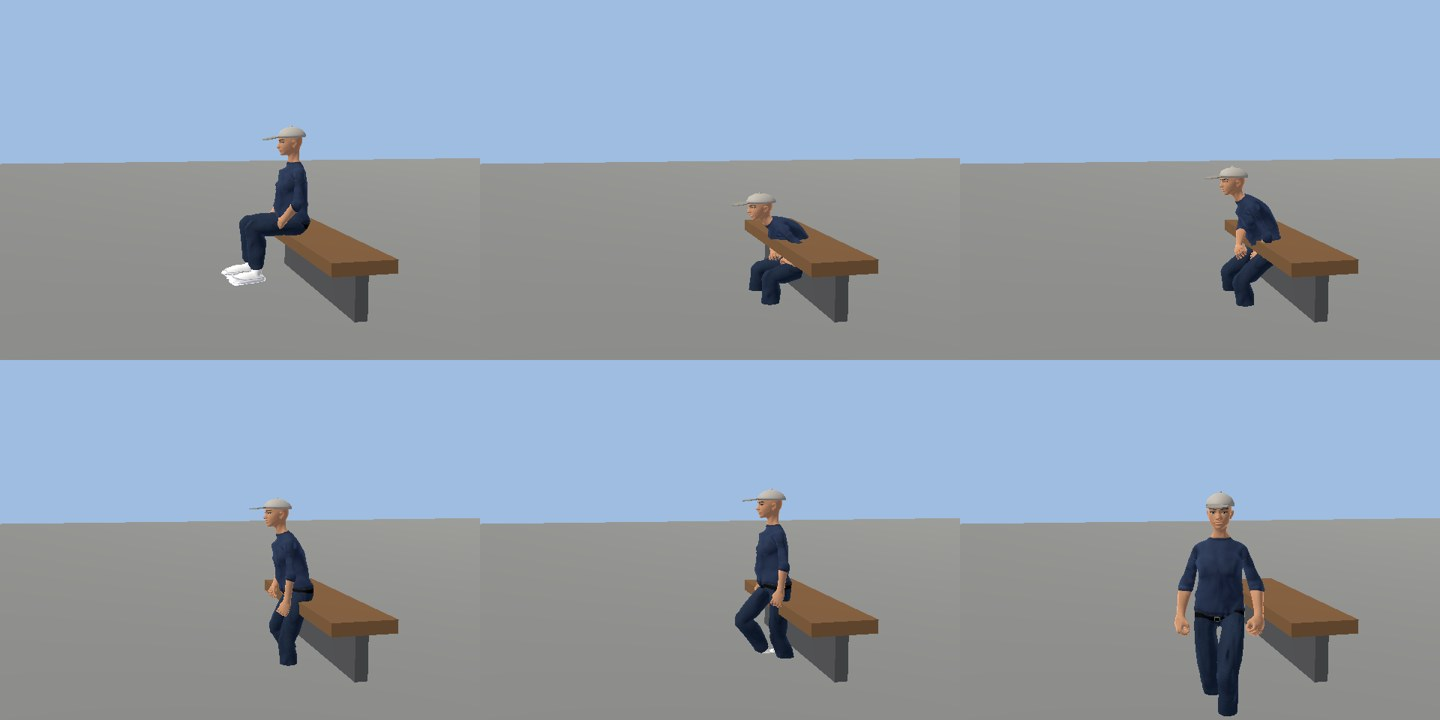
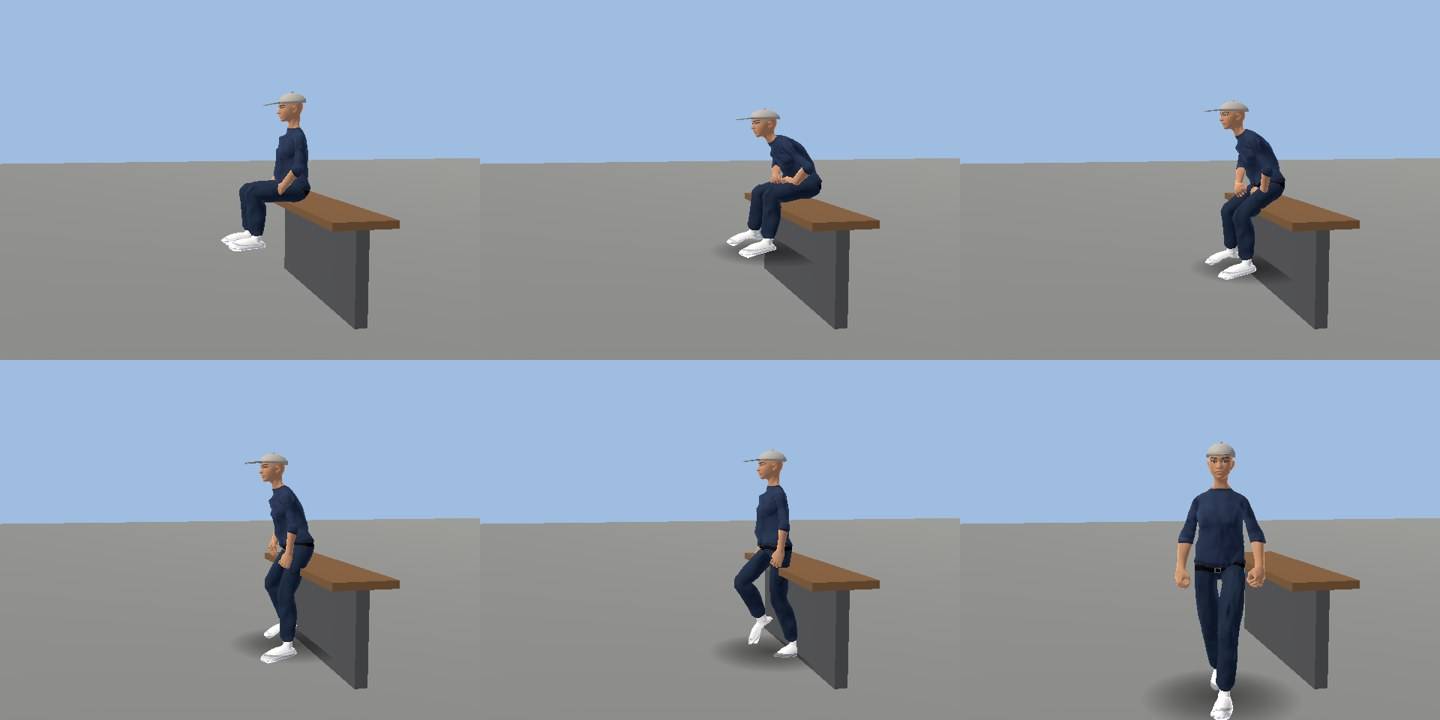
Banco: la raíz se compensa en sentarse/levantarse para no hundirse en el tablero; peatones a la altura del suelo
Claude-Session: https://claude.ai/code/session_015HWWmo9PWZavoEcwL8dfWu

diff --git a/docs/PLAN_DEL_LUNES.md b/docs/PLAN_DEL_LUNES.md
@@ -451,7 +451,7 @@ para tapar el músculo y borraba las arrugas y el tejido; ahora quita el múscul
 en 0,4 (`p4_ropa_despues.jpg`; antes = `p1_postura_despues.jpg`). La piel desnuda iba con rugosidad y especular de tela
 (brillo plástico en nariz y labios): ahora rugosidad 0,76, especular 0,14 y subsuperficie 0,22 (`p4_cara_{antes,despues}.jpg`; en la captura el cambio es SUTIL: el
 brillo que queda en nariz y labios viene de la luz de borde `RIM` y de la cara de frente al sol; pendiente revisarlo con la cámara real).
-P3 HECHO 27-10 (`ideas/p3_puertas`, `p3_escaleras`, `p3_banquillo_tour`): vecinos que abren las puertas de las entradas (`PuertaVida`: llegan, tienden la mano, la hoja gira, entran/salen), gente que sube y baja escaleras peldaño a peldaño con el ciclo de paso ajustado (`EscaleraVida`: bocas del metro, escalinata del ayuntamiento, estación del teleférico) y los 5 mejores suplentes sentados en el banquillo local de la visita al estadio (`BanquilloTour`). La grada de la visita ya lleva hinchada (35 % de ocupación, VAT). S8 MUSEO INTERACTIVO (27-10, `MuseoVitrinas` + `VisorTrofeo`, `ideas/s8_museo_vitrinas`, captura `capturas_ciudad_c2/visor_trofeo.jpg`): E ante una vitrina de la planta 2 (`SalasClub.vitrinas`) abre un panel con la copa real girando en su propio `SubViewport` (ratón o A/D para girarla) y la ficha del título k (`Roles.trofeos[k]`: competición, año, final, goleadores; lo no guardado dice «Sin datos»). Ahora se guardan la final y los tres máximos goleadores al ganar la LIGA (`Roles._ficha_liga`) y la final de la Supercopa. La planta 3 del museo ampliado (copas 7+, `MuseoAmpliado.vitrinas`) también es interactiva: ambas plantas siguen el mismo orden de hitos por año (`MuseoVitrinas.hitos`). La COPA ya suma a `Roles.trofeos` con su final (`Mundo._final_de_copa`). PENDIENTE: el museo no ha crecido más en detalle. S7 PASAJEROS DEL AUTOBÚS (27-10, `PasajerosBus`, `ideas/s7_pasajeros`): en cada marquesina (`CityBuilder.esperas_bus`) esperan 2 personas mientras el jugador está a < 70 m; al parar el autobús caminan a la puerta y suben (su semilla queda en `meta "pasajeros"` del autobús, máx. 10); en la parada siguiente BAJAN las mismas personas y se van andando. Los cristales del autobús son semitransparentes y tintados (`InteriorBus`, captura `capturas_ciudad_c2/bus_interior.jpg`) y dentro hay 10 plazas con una silueta sentada por pasajero (se encienden/apagan con `meta "pasajeros"`, `ideas/s7_pasajeros`); son siluetas simples (cápsula y esfera), no peatones con esqueleto. El metro ya lo hacía (espera, subir, viajar dentro y bajar: `metro_ciudad_p1`); el tren y el teleférico son de la ejecutora. S6 PARAGUAS (27-10, `ParaguasVida`, `ideas/s6_paraguas`, `capturas_personajes/s6_paraguas.jpg`): con clima de lluvia o tormenta (`Mundo.clima()`) los peatones abren un paraguas sobre la cabeza (6 colores apagados), caminan un 25 % más rápido y hasta 5 se resguardan unos 6-10 s bajo la marquesina de una entrada (a < 4,5 m) con el paraguas cerrado; al escampar se recoge todo. El paraguas va en la MANO derecha (BoneAttachment3D a hand_r) con el brazo levantado (clip «caminar_paraguas», el caminar con brazo y antebrazo fijados; eje corregido 35°). LLUVIA EN LA CIUDAD (`PrecipitacionCiudad`: dos emisores que siguen a la cámara, topes de partículas 1800/4200/5200 según calidad frente a ~15 000 en el partido; suelo mojado `CityBuilder.mojar`; capturas `s6_lluvia_ciudad_{seco,lluvia}.jpg`; memoria del proceso 5230 → 5233 MB con 4200 partículas en software). CLIMA EN LA CIUDAD (`ClimaCiudad`, usa `Ambience.CLIMA_PARTIDO`): con lluvia/tormenta/nublado/niebla el cielo se aplana a gris sin disco solar, el sol baja de energía y se difumina, más niebla; gotas largas y claras; ruido de lluvia cada 3 s por el bus de ambiente (`lluvia_ambiente`/`lluvia_fuerte`); capturas `s6_lluvia_ciudad_{lluvia,cerca}.jpg` (la de cerca: dos peatones con el paraguas en la mano). PENDIENTE: revisar en Forward+. P1-P3 «MEJORAR» (27-10) 1/3 MOVIMIENTO NATURAL (`MovimientoNatural`, `ideas/p1_movimiento_natural`): el peatón de la ciudad arranca con rampa de 0,45 s (la velocidad del clip la sigue), si lo frenan (jugador, semáforo, el de delante) pasa a «parado» en vez de mover las piernas sin avanzar (con 0,4 s de histéresis), gira con suavidad hacia donde va a ir (mira 0,5 m por delante en la ruta, máx. 0,33 rad por fotograma en una esquina de 90°) y 2 de cada 3 peatones a < 8 m giran la cabeza hacia el jugador (`LookAtModifier3D` de `MiradaBalon`, influencia con rampa de 0,5 s). El jugador quieto que gira sobre sí da pasitos (clip «caminar» a 0,8). PENDIENTE de la pasada: inclinación del torso al girar corriendo, sin captura antes/después (un fotograma fijo no enseña el giro; la prueba mide el giro por fotograma). 2/3 POSTURA y ANATOMÍA (27-10, `PosturaQ`, `ideas/p2_postura`, `capturas_personajes/p2_postura_antes_despues.jpg`, arriba antes, abajo después): un `SkeletonModifier3D` por peatón, tras la animación, suma según su semilla manos relajadas (dedos doblados 14-22° por falange, pulgar menos), hombros caídos 4-12° y cabeza/cuello adelantados 3-14°; 35 huesos, rotaciones fijas. Ejes medidos por prueba (dedos X, hombro −Z, cuello X). REVISIÓN DEL LÍDER (27-10): el adelanto de cuello es leve (1-6°) y la cabeza se NIVELA (corrige el 85 % del cabeceo medido; solo 1 de cada 12 conserva la cabeza gacha) para mirar al horizonte de perfil. MOCHILAS DE PERFIL (revisión del líder en Forward+): la mochila se hundió 3,5 cm en el torso (espalda medida a z −0,14…−0,16 entre y −0,15 y 0,22) y las correas se acortaron (el pecho llega solo hasta la axila y pegadas a la fachada del torso); captura andando `p4_mochila_perfil_antes_despues.jpg`. El «objeto oscuro del mentón» NO era una malla del peatón: era la visera de la gorra del peatón que quedaba detrás en la escena de captura (se solapaban en fila). MOCHILAS (`MochilaQ`, `capturas_personajes/p4_mochila_antes_despues.jpg`, arriba cajas, abajo ahora): cuerpo y bolsillo de bordes redondeados, asa y dos correas que pasan por el hombro, bajan por el pecho y vuelven bajo el brazo pegadas al torso (medido en `spine_03`). PENDIENTE: lo mismo en los futbolistas del partido (no se ha tocado) y 3/3 MÁS ANIMACIONES (27-10): MIRAR ESCAPARATES (`EscaparateVida`, `ideas/p3_escaparates`): junto a las entradas (`puertas_vida`) un vecino llega por la fachada, se para a 2,6 m de la puerta, gira el cuerpo al cristal, pasea la mirada 6-9 s (`LookAtModifier3D` sobre un punto que barre el escaparate) y se va; máx. 2. HABLAR EN GRUPO (`GrupoVida`, `ideas/p3_grupo`, `capturas_personajes/p3_grupo.jpg`): tres vecinos llegan por distintos lados, forman un corro a 0,95 m del centro ante una entrada, charlan 14-22 s con el clip «charla» a distinto desfase (la cabeza de cada uno sigue al que habla, que cambia cada 3 s) y se van cada uno por su lado; 1 grupo a la vez. ARREGLO DE FONDO: la «charla» (y cualquier clip `…_Loop`) NO se cargaba para los peatones porque el pack lo guarda sin el sufijo (`PeatonVida.gesto` y `TraficoCiudad._gesto` no tenían el respaldo de `AnimExtra.asegurar`, que ahora además deja esos clips en bucle): las charlas de dos peatones que se alcanzaban tampoco gesticulaban. MIRAR EL MÓVIL ya existía (`PeatonVida.esperar`: «Idle_Torch» con el móvil en la mano). SENTARSE EN UN BANCO (`GenteSentada._llegadas`, `ideas/p3_sentados`): quien ocupa un asiento MIENTRAS lo miras (a > 6 m) llega andando desde 3,2 m, se vuelve y el clip «sentarse» encadena «sentado»; los que ya estaban al acercarte siguen apareciendo sentados. El móvil y la llamada ya existían. SIN CAPTURA de las dos escenas (movimiento) y la forma de la raíz al sentarse no se ha revisado a ojo: PENDIENTE de revisar en el juego; RESPALDO CURVO de la butaca cercana (`RespaldoCurvo`, `capturas_estadio/respaldo_curvo.jpg`, vista cenital: abajo plano, arriba curvo): se deforma una vez la malla del modelo, los vértices del respaldo se adelantan hasta 5 cm en los bordes de cada respaldo (cóncavo); sutil a distancia de juego. La butaca LEJANA (3 losas) sigue plana a propósito (presupuesto de vértices). LEVANTARSE DEL BANCO (`GenteSentada._levantar/_salidas`, `capturas_personajes/p3_levantarse.jpg`): quien deja el asiento a < 38 m se levanta con el clip «levantarse» («Sitting_Exit», 1 s) y se va andando 8 m por la acera; lejos desaparece sin más. AUDITORÍA DE CLIPS (`ideas/p3_clips_ual`): los 25 clips de `AnimExtra.UAL` y los de `AnimQuaternius.CLIP_REAL/CAMINATA` se cargan; otros 3 sitios que cargaban a mano sin el respaldo «_Loop» (explorador_ciudad_p2, rueda de prensa p2/p3) ahora usan `AnimExtra.asegurar`. P4 PELO (27-10): el pack Quaternius del repo trae 6 mallas; la sin usar `Hair_BuzzedFemale` se estrena en el corte rapado de las MUJERES (`PeloQ.poner`, `ideas/p4_pelo_mujer`, `capturas_personajes/p4_pelo_mujer_antes_despues.jpg`, arriba antes y abajo después: asienta mejor). No hay más cortes en el repo; esperan los del Drive. P4 pasada 2 (27-10, CONTACTO): los peatones llevan una mancha de sombra redonda y suave bajo los pies (`PeatonQ.sombra_contacto`, una malla y un material compartidos, hasta 70 m) para que no «floten» más allá del alcance de la sombra del sol (`ideas/p4_contacto`, `capturas_personajes/p4_contacto_antes_despues.jpg`, arriba antes, abajo después). LOD SIN SALTOS: las mallas del peatón se disuelven con tramado (`VISIBILITY_RANGE_FADE_SELF`) en los 20 m de margen en vez de desaparecer de golpe (solo Forward+/Mobile; en Compatibility sigue el salto). Queda en P4: pelo con mechones (pide mallas mejores). Falta P3: capturas de escaleras en Forward+, clips propios de abrir puerta/subir escalón (el pack gratuito solo trae «Interact»), peatones que entran en tiendas pequeñas (no tienen puerta registrada); y P4: pelo (mechones poligonales). PROBADO Y DESCARTADO (27-10): suavizar las normales de las 4 mallas de pelo del pack
+P3 HECHO 27-10 (`ideas/p3_puertas`, `p3_escaleras`, `p3_banquillo_tour`): vecinos que abren las puertas de las entradas (`PuertaVida`: llegan, tienden la mano, la hoja gira, entran/salen), gente que sube y baja escaleras peldaño a peldaño con el ciclo de paso ajustado (`EscaleraVida`: bocas del metro, escalinata del ayuntamiento, estación del teleférico) y los 5 mejores suplentes sentados en el banquillo local de la visita al estadio (`BanquilloTour`). La grada de la visita ya lleva hinchada (35 % de ocupación, VAT). S8 MUSEO INTERACTIVO (27-10, `MuseoVitrinas` + `VisorTrofeo`, `ideas/s8_museo_vitrinas`, captura `capturas_ciudad_c2/visor_trofeo.jpg`): E ante una vitrina de la planta 2 (`SalasClub.vitrinas`) abre un panel con la copa real girando en su propio `SubViewport` (ratón o A/D para girarla) y la ficha del título k (`Roles.trofeos[k]`: competición, año, final, goleadores; lo no guardado dice «Sin datos»). Ahora se guardan la final y los tres máximos goleadores al ganar la LIGA (`Roles._ficha_liga`) y la final de la Supercopa. La planta 3 del museo ampliado (copas 7+, `MuseoAmpliado.vitrinas`) también es interactiva: ambas plantas siguen el mismo orden de hitos por año (`MuseoVitrinas.hitos`). La COPA ya suma a `Roles.trofeos` con su final (`Mundo._final_de_copa`). PENDIENTE: el museo no ha crecido más en detalle. S7 PASAJEROS DEL AUTOBÚS (27-10, `PasajerosBus`, `ideas/s7_pasajeros`): en cada marquesina (`CityBuilder.esperas_bus`) esperan 2 personas mientras el jugador está a < 70 m; al parar el autobús caminan a la puerta y suben (su semilla queda en `meta "pasajeros"` del autobús, máx. 10); en la parada siguiente BAJAN las mismas personas y se van andando. Los cristales del autobús son semitransparentes y tintados (`InteriorBus`, captura `capturas_ciudad_c2/bus_interior.jpg`) y dentro hay 10 plazas con una silueta sentada por pasajero (se encienden/apagan con `meta "pasajeros"`, `ideas/s7_pasajeros`); son siluetas simples (cápsula y esfera), no peatones con esqueleto. El metro ya lo hacía (espera, subir, viajar dentro y bajar: `metro_ciudad_p1`); el tren y el teleférico son de la ejecutora. S6 PARAGUAS (27-10, `ParaguasVida`, `ideas/s6_paraguas`, `capturas_personajes/s6_paraguas.jpg`): con clima de lluvia o tormenta (`Mundo.clima()`) los peatones abren un paraguas sobre la cabeza (6 colores apagados), caminan un 25 % más rápido y hasta 5 se resguardan unos 6-10 s bajo la marquesina de una entrada (a < 4,5 m) con el paraguas cerrado; al escampar se recoge todo. El paraguas va en la MANO derecha (BoneAttachment3D a hand_r) con el brazo levantado (clip «caminar_paraguas», el caminar con brazo y antebrazo fijados; eje corregido 35°). LLUVIA EN LA CIUDAD (`PrecipitacionCiudad`: dos emisores que siguen a la cámara, topes de partículas 1800/4200/5200 según calidad frente a ~15 000 en el partido; suelo mojado `CityBuilder.mojar`; capturas `s6_lluvia_ciudad_{seco,lluvia}.jpg`; memoria del proceso 5230 → 5233 MB con 4200 partículas en software). CLIMA EN LA CIUDAD (`ClimaCiudad`, usa `Ambience.CLIMA_PARTIDO`): con lluvia/tormenta/nublado/niebla el cielo se aplana a gris sin disco solar, el sol baja de energía y se difumina, más niebla; gotas largas y claras; ruido de lluvia cada 3 s por el bus de ambiente (`lluvia_ambiente`/`lluvia_fuerte`); capturas `s6_lluvia_ciudad_{lluvia,cerca}.jpg` (la de cerca: dos peatones con el paraguas en la mano). PENDIENTE: revisar en Forward+. P1-P3 «MEJORAR» (27-10) 1/3 MOVIMIENTO NATURAL (`MovimientoNatural`, `ideas/p1_movimiento_natural`): el peatón de la ciudad arranca con rampa de 0,45 s (la velocidad del clip la sigue), si lo frenan (jugador, semáforo, el de delante) pasa a «parado» en vez de mover las piernas sin avanzar (con 0,4 s de histéresis), gira con suavidad hacia donde va a ir (mira 0,5 m por delante en la ruta, máx. 0,33 rad por fotograma en una esquina de 90°) y 2 de cada 3 peatones a < 8 m giran la cabeza hacia el jugador (`LookAtModifier3D` de `MiradaBalon`, influencia con rampa de 0,5 s). El jugador quieto que gira sobre sí da pasitos (clip «caminar» a 0,8). PENDIENTE de la pasada: inclinación del torso al girar corriendo, sin captura antes/después (un fotograma fijo no enseña el giro; la prueba mide el giro por fotograma). 2/3 POSTURA y ANATOMÍA (27-10, `PosturaQ`, `ideas/p2_postura`, `capturas_personajes/p2_postura_antes_despues.jpg`, arriba antes, abajo después): un `SkeletonModifier3D` por peatón, tras la animación, suma según su semilla manos relajadas (dedos doblados 14-22° por falange, pulgar menos), hombros caídos 4-12° y cabeza/cuello adelantados 3-14°; 35 huesos, rotaciones fijas. Ejes medidos por prueba (dedos X, hombro −Z, cuello X). REVISIÓN DEL LÍDER (27-10): el adelanto de cuello es leve (1-6°) y la cabeza se NIVELA (corrige el 85 % del cabeceo medido; solo 1 de cada 12 conserva la cabeza gacha) para mirar al horizonte de perfil. MOCHILAS DE PERFIL (revisión del líder en Forward+): la mochila se hundió 3,5 cm en el torso (espalda medida a z −0,14…−0,16 entre y −0,15 y 0,22) y las correas se acortaron (el pecho llega solo hasta la axila y pegadas a la fachada del torso); captura andando `p4_mochila_perfil_antes_despues.jpg`. El «objeto oscuro del mentón» NO era una malla del peatón: era la visera de la gorra del peatón que quedaba detrás en la escena de captura (se solapaban en fila). MOCHILAS (`MochilaQ`, `capturas_personajes/p4_mochila_antes_despues.jpg`, arriba cajas, abajo ahora): cuerpo y bolsillo de bordes redondeados, asa y dos correas que pasan por el hombro, bajan por el pecho y vuelven bajo el brazo pegadas al torso (medido en `spine_03`). PENDIENTE: lo mismo en los futbolistas del partido (no se ha tocado) y 3/3 MÁS ANIMACIONES (27-10): MIRAR ESCAPARATES (`EscaparateVida`, `ideas/p3_escaparates`): junto a las entradas (`puertas_vida`) un vecino llega por la fachada, se para a 2,6 m de la puerta, gira el cuerpo al cristal, pasea la mirada 6-9 s (`LookAtModifier3D` sobre un punto que barre el escaparate) y se va; máx. 2. HABLAR EN GRUPO (`GrupoVida`, `ideas/p3_grupo`, `capturas_personajes/p3_grupo.jpg`): tres vecinos llegan por distintos lados, forman un corro a 0,95 m del centro ante una entrada, charlan 14-22 s con el clip «charla» a distinto desfase (la cabeza de cada uno sigue al que habla, que cambia cada 3 s) y se van cada uno por su lado; 1 grupo a la vez. ARREGLO DE FONDO: la «charla» (y cualquier clip `…_Loop`) NO se cargaba para los peatones porque el pack lo guarda sin el sufijo (`PeatonVida.gesto` y `TraficoCiudad._gesto` no tenían el respaldo de `AnimExtra.asegurar`, que ahora además deja esos clips en bucle): las charlas de dos peatones que se alcanzaban tampoco gesticulaban. MIRAR EL MÓVIL ya existía (`PeatonVida.esperar`: «Idle_Torch» con el móvil en la mano). SENTARSE EN UN BANCO (`GenteSentada._llegadas`, `ideas/p3_sentados`): quien ocupa un asiento MIENTRAS lo miras (a > 6 m) llega andando desde 3,2 m, se vuelve y el clip «sentarse» encadena «sentado»; los que ya estaban al acercarte siguen apareciendo sentados. El móvil y la llamada ya existían. SIN CAPTURA de las dos escenas (movimiento) y la forma de la raíz al sentarse no se ha revisado a ojo: PENDIENTE de revisar en el juego; RESPALDO CURVO de la butaca cercana (`RespaldoCurvo`, `capturas_estadio/respaldo_curvo.jpg`, vista cenital: abajo plano, arriba curvo): se deforma una vez la malla del modelo, los vértices del respaldo se adelantan hasta 5 cm en los bordes de cada respaldo (cóncavo); sutil a distancia de juego. La butaca LEJANA (3 losas) sigue plana a propósito (presupuesto de vértices). LEVANTARSE DEL BANCO (`GenteSentada._levantar/_salidas`, `capturas_personajes/p3_levantarse.jpg`): quien deja el asiento a < 38 m se levanta con el clip «levantarse» («Sitting_Exit», 1 s) y se va andando 8 m por la acera; lejos desaparece sin más. SIN HUNDIRSE (revisión del líder): medido con la pelvis, «Sitting_Idle» la deja a 1,05 m de la raíz y «Sitting_Enter/Exit» a 0,60; la raíz sube `COMPENSA` = 0,45 m durante esos clips (`GenteSentada.raiz_levantarse/raiz_sentarse`) y los peatones andan a la altura del suelo (`ExploradorCiudad.altura_suelo`). OJO: el asiento de los bancos está a ~0,75 m y sentados los pies quedan colgando unos 10 cm sobre el suelo (bajar el tablero del banco a ~0,5 m es cosa de `CityBuilder`/`CiudadExpansion`, sin tocar). AUDITORÍA DE CLIPS (`ideas/p3_clips_ual`): los 25 clips de `AnimExtra.UAL` y los de `AnimQuaternius.CLIP_REAL/CAMINATA` se cargan; otros 3 sitios que cargaban a mano sin el respaldo «_Loop» (explorador_ciudad_p2, rueda de prensa p2/p3) ahora usan `AnimExtra.asegurar`. P4 PELO (27-10): el pack Quaternius del repo trae 6 mallas; la sin usar `Hair_BuzzedFemale` se estrena en el corte rapado de las MUJERES (`PeloQ.poner`, `ideas/p4_pelo_mujer`, `capturas_personajes/p4_pelo_mujer_antes_despues.jpg`, arriba antes y abajo después: asienta mejor). No hay más cortes en el repo; esperan los del Drive. P4 pasada 2 (27-10, CONTACTO): los peatones llevan una mancha de sombra redonda y suave bajo los pies (`PeatonQ.sombra_contacto`, una malla y un material compartidos, hasta 70 m) para que no «floten» más allá del alcance de la sombra del sol (`ideas/p4_contacto`, `capturas_personajes/p4_contacto_antes_despues.jpg`, arriba antes, abajo después). LOD SIN SALTOS: las mallas del peatón se disuelven con tramado (`VISIBILITY_RANGE_FADE_SELF`) en los 20 m de margen en vez de desaparecer de golpe (solo Forward+/Mobile; en Compatibility sigue el salto). Queda en P4: pelo con mechones (pide mallas mejores). Falta P3: capturas de escaleras en Forward+, clips propios de abrir puerta/subir escalón (el pack gratuito solo trae «Interact»), peatones que entran en tiendas pequeñas (no tienen puerta registrada); y P4: pelo (mechones poligonales). PROBADO Y DESCARTADO (27-10): suavizar las normales de las 4 mallas de pelo del pack
 (promedio por vértice) empeora: las tarjetas de mechón comparten vértices y salen manchas claras/oscuras; el pelo pide mallas
 mejores (o más cortes del pack de Quaternius), no un cambio de sombreado. VEREDICTO DEL DUEÑO (27-10): «MEJORAR» (P1-P3 no bastan: seguir subiendo anatomía, movimiento, animaciones y acabado; la C2 de ciudad sigue hasta agotar P0 y P1).
 
